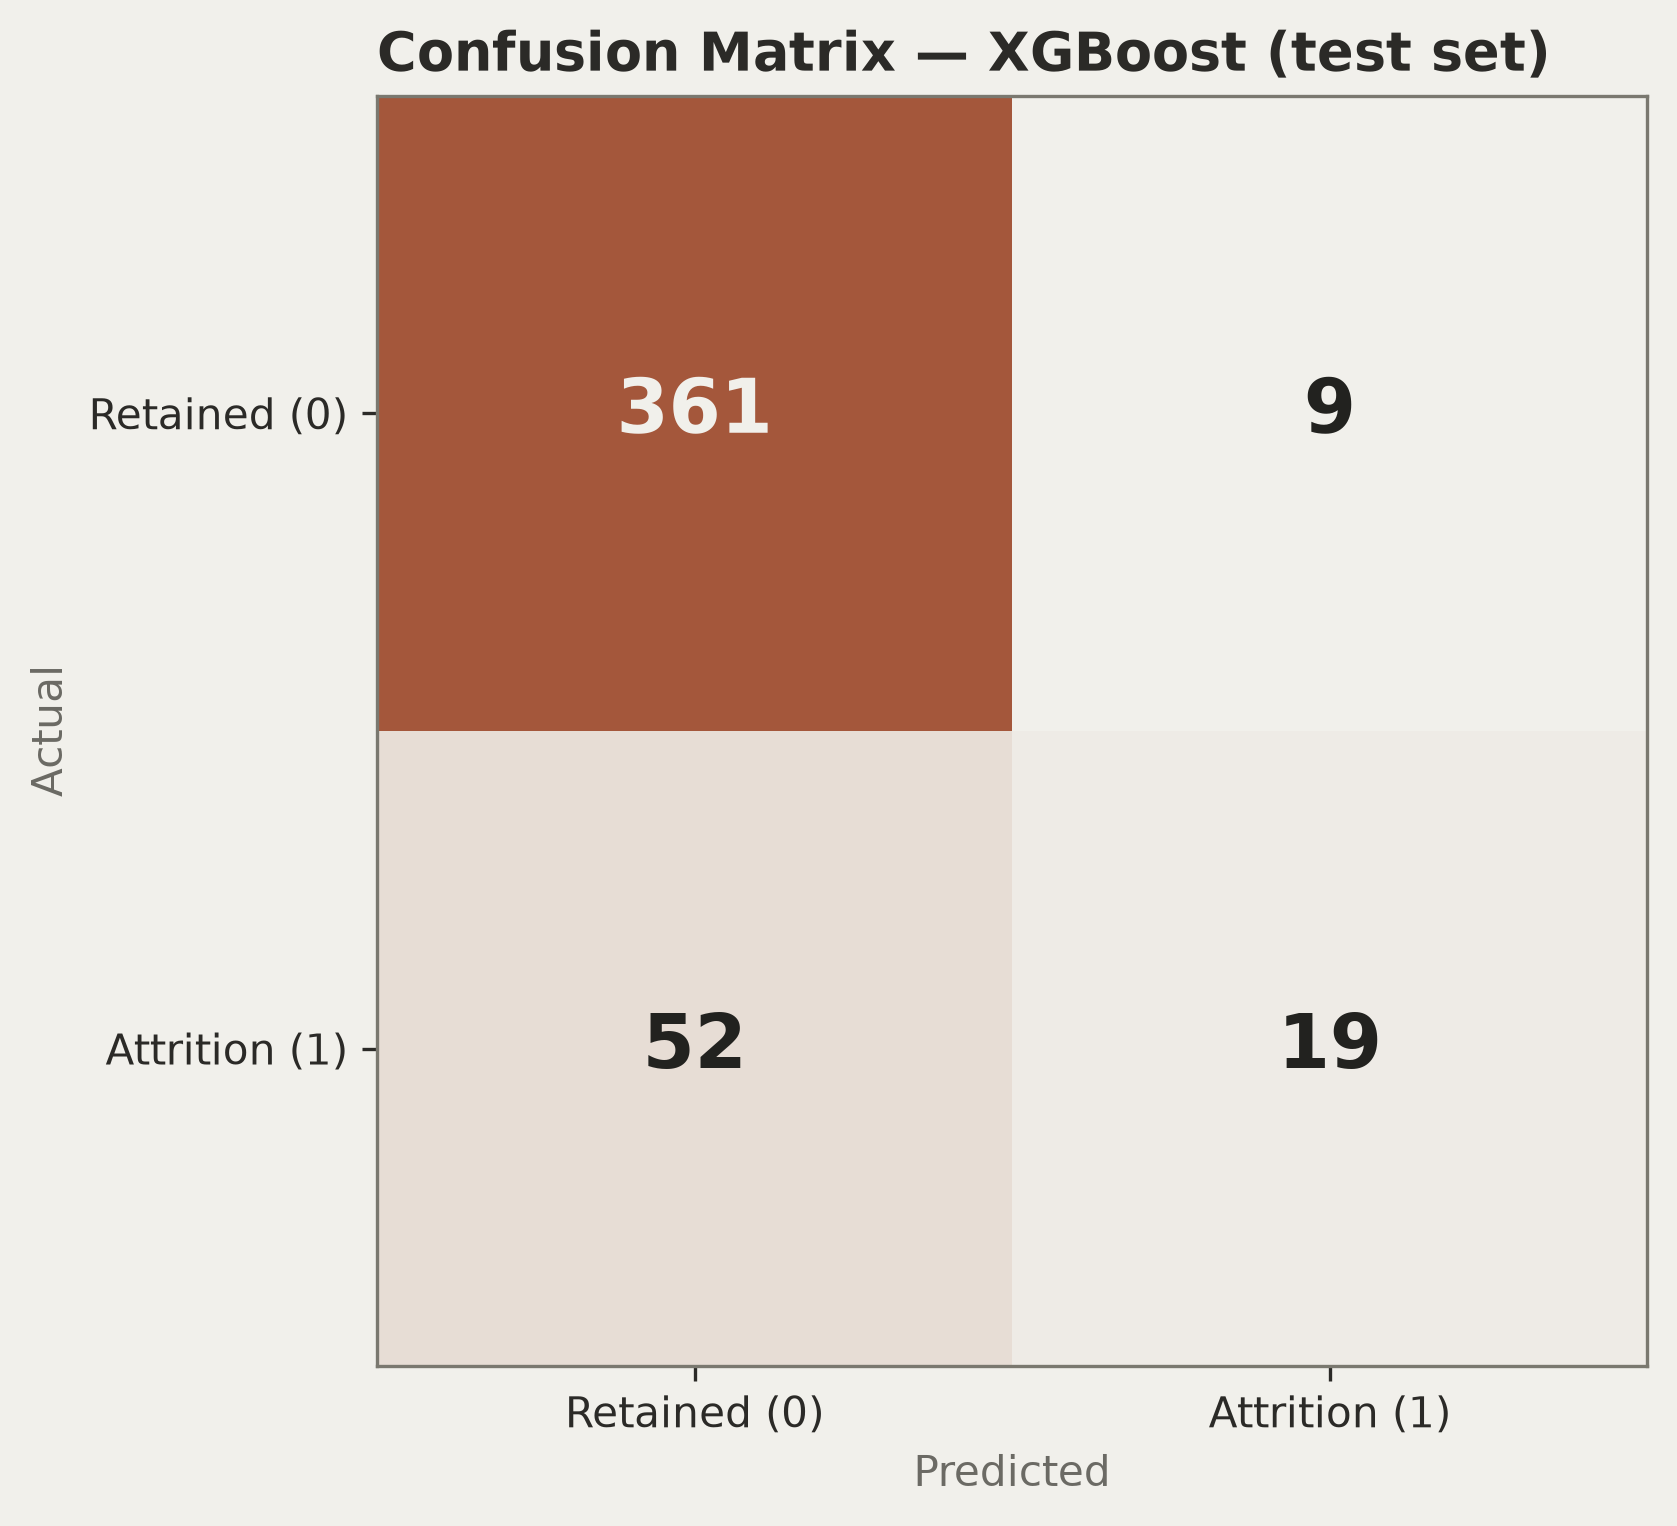
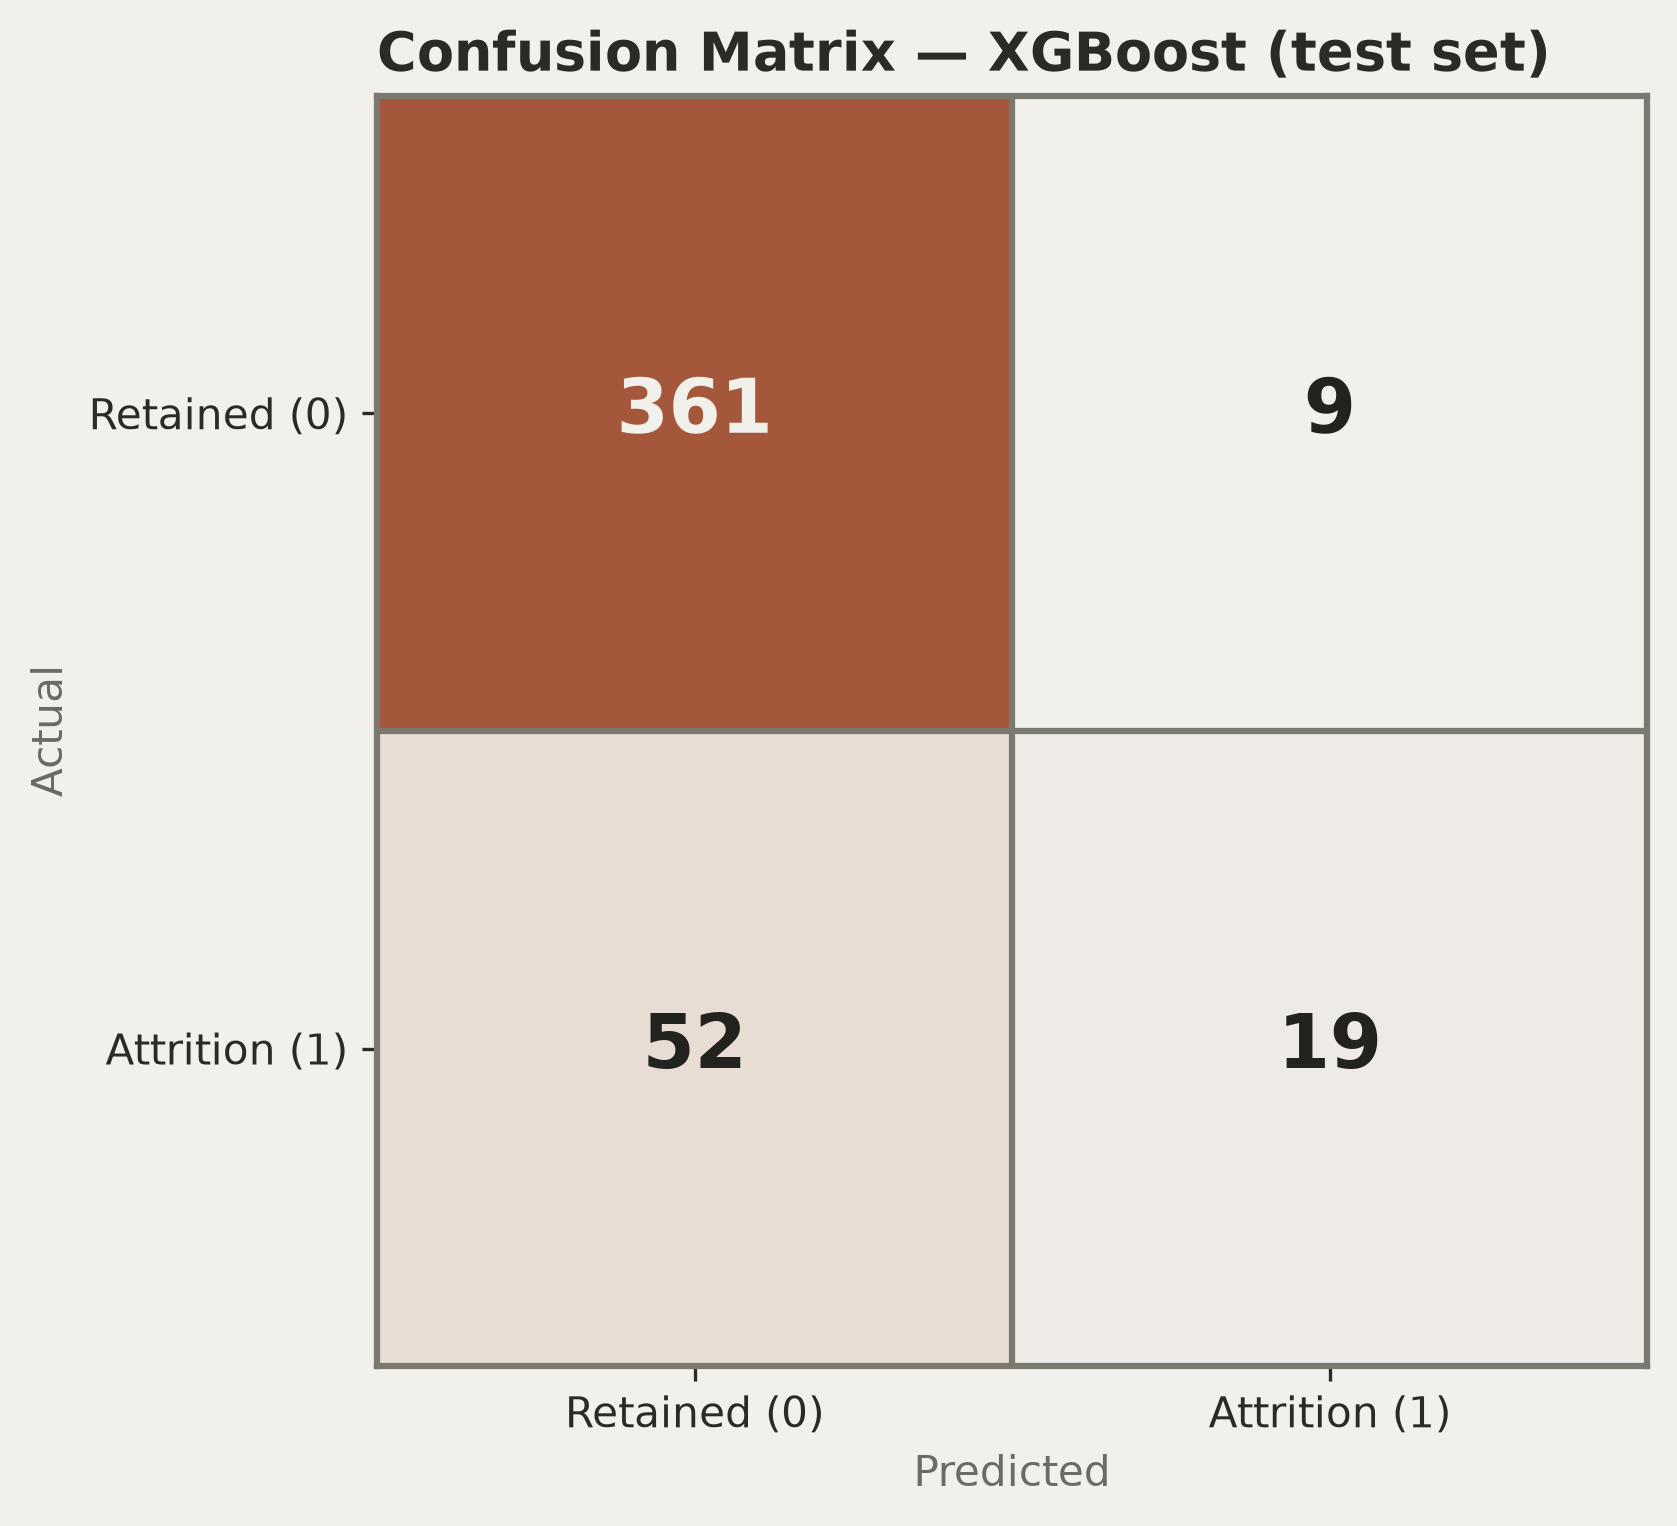
Make SHAP mid-values visible, border confusion-matrix cells, list palette.py in README

Changed region(s): [[0.2171, 0.0616, 0.9922, 0.8932]]

diff --git a/src/palette.py b/src/palette.py
@@ -8,7 +8,9 @@ matplotlib rcParams both scripts rely on.
 Series colours are spaced in CIELAB lightness (L* ~24 / 32 / 39 / 46 / 53)
 so they stay distinguishable in greyscale; every series and reference colour
 is at least 3:1 against BACKGROUND, and both text colours at least 4.5:1.
-Grid and colormap ramp stops are non-data and exempt from the 3:1 rule.
+Grid and the light colormap ramp stops are non-data and exempt from the 3:1
+rule. The SHAP mid stop is the exception: mid-valued dots are data, so it
+reaches 3:1 too.
 Numbers printed inside heatmap / confusion-matrix cells use CELL_TEXT or
 BACKGROUND, picked per cell by text_color_for, and reach 4.5:1 on every cell.
 """
@@ -45,8 +47,9 @@ TEAL_STOP = "#3F6B6B"
 DIVERGING_CMAP = LinearSegmentedColormap.from_list("earth_diverging", [TEAL_STOP, BACKGROUND, RUST])
 # Sequential (confusion matrix): linen -> rust
 SEQUENTIAL_CMAP = LinearSegmentedColormap.from_list("earth_sequential", [BACKGROUND, RUST])
-# SHAP feature value: low -> high
-SHAP_CMAP = LinearSegmentedColormap.from_list("earth_shap", [TEAL_STOP, GRID, RUST])
+# SHAP feature value: low -> high. Mid stop is a grey at 3.11:1 on BACKGROUND so mid-valued dots stay visible.
+SHAP_MID = "#8A8880"
+SHAP_CMAP = LinearSegmentedColormap.from_list("earth_shap", [TEAL_STOP, SHAP_MID, RUST])
 
 
 def _relative_luminance(color) -> float:

diff --git a/src/evaluate.py b/src/evaluate.py
@@ -238,6 +238,10 @@ def plot_confusion_matrix(
     for spine in ax.spines.values():
         spine.set_visible(True)
         spine.set_color(REFERENCE)
+        spine.set_linewidth(1.5)
+    # Thin borders so the near-background "low count" cells still read as cells
+    ax.axhline(0.5, color=REFERENCE, linewidth=1.5)
+    ax.axvline(0.5, color=REFERENCE, linewidth=1.5)
     for i in range(2):
         for j in range(2):
             fill = image.cmap(image.norm(cm_arr[i, j]))

diff --git a/decisions.md b/decisions.md
@@ -9,10 +9,10 @@ stated reason.
 ---
 
 ### 2026-11-25 — Matte earth palette matching the portfolio site
-- **Decision:** All figures in `assets/` use a light, matte earth palette defined once in `src/palette.py` and imported by `scripts/generate_visuals.py` and `src/evaluate.py`. Background `#F1F0EB`, text `#2B2A27`, muted text `#6B6A64`, grid `#D5D2C9` (thin, dashed), reference lines and spines `#7A786F`, no top or right spine. Left/attrition is rust `#A4573B`, stayed is deep teal `#265252`, and the headline model (XGBoost) is charcoal `#3A3935` with a thicker line. The other models use moss `#546131` and ochre `#9C7A26`. Diverging (heatmap) runs `#3F6B6B` to linen to rust, sequential (confusion matrix) runs linen to rust, and SHAP runs `#3F6B6B` to `#D5D2C9` to rust. Heatmap and confusion-matrix cell text is picked by cell luminance (`src/palette.py:text_color_for`), choosing between linen and a cell ink `#22221F`. The cell ink is `#2B2A27` darkened minimally, because with `#2B2A27` the 0.71–0.77 heatmap cells reached only 4.05–4.45:1. Every cell now reaches at least 4.5:1. shap's own x=0 line is recoloured to `#7A786F`.
+- **Decision:** All figures in `assets/` use a light, matte earth palette defined once in `src/palette.py` and imported by `scripts/generate_visuals.py` and `src/evaluate.py`. Background `#F1F0EB`, text `#2B2A27`, muted text `#6B6A64`, grid `#D5D2C9` (thin, dashed), reference lines and spines `#7A786F`, no top or right spine. Left/attrition is rust `#A4573B`, stayed is deep teal `#265252`, and the headline model (XGBoost) is charcoal `#3A3935` with a thicker line. The other models use moss `#546131` and ochre `#9C7A26`. Diverging (heatmap) runs `#3F6B6B` to linen to rust, sequential (confusion matrix) runs linen to rust, and SHAP runs `#3F6B6B` to a mid grey `#8A8880` to rust. The SHAP mid stop was first the grid colour `#D5D2C9`, but SHAP dots with mid-range feature values are data, and at 1.32:1 against the background they nearly disappeared. `#8A8880` reaches 3.11:1, so mid-range dots stay visible; both ends are unchanged. The confusion matrix draws thin `#7A786F` cell borders (linewidth 1.5), so the near-background low-count cells still read as cells. Heatmap and confusion-matrix cell text is picked by cell luminance (`src/palette.py:text_color_for`), choosing between linen and a cell ink `#22221F`. The cell ink is `#2B2A27` darkened minimally, because with `#2B2A27` the 0.71–0.77 heatmap cells reached only 4.05–4.45:1. Every cell now reaches at least 4.5:1. shap's own x=0 line is recoloured to `#7A786F`.
 - **Why:** The user stated the figures should match the portfolio site.
 - **Alternatives considered:** Keeping the dark copper & teal theme. Using the requested series hexes exactly (`#3F6B6B`, `#5E6B3A`, `#967420`): rejected because three of them sit at L* 42–51 and look the same in greyscale. With the user's approval, only their CIELAB lightness was shifted to `#265252`, `#546131` and `#9C7A26`, spacing the five series at L* ≈ 24/32/39/46/53.
-- **Tradeoff accepted:** The muted hues are low-chroma, and some pairs fail the dataviz CVD check (for example rust vs moss under protanopia). Identity therefore also comes from line style, line width and the legend: every model has its own dash pattern, and Departed is drawn dashed. The grid and the light colormap stops are under 3:1 against the background on purpose, as non-data elements (approved by the user).
+- **Tradeoff accepted:** The muted hues are low-chroma, and some pairs fail the dataviz CVD check (for example rust vs moss under protanopia). Identity therefore also comes from line style, line width and the legend: every model has its own dash pattern, and Departed is drawn dashed. The grid and the light heatmap / confusion-matrix colormap stops are under 3:1 against the background on purpose, as non-data elements (approved by the user).
 - **Source:** made-now
 
 ### 2026-11-24 — Write README EDA numbers to assets/eda_stats.json

diff --git a/README.md b/README.md
@@ -88,7 +88,8 @@ src/
 ├── data_ingestion.py      # Loads the single source CSV
 ├── preprocessing.py       # Cleaning, the fixed split, and the scale -> SMOTENC -> encode steps
 ├── train.py               # 5-fold CV of all four models, headline selection, saves fitted pipelines
-└── evaluate.py            # Loads saved pipelines, test metrics, ROC/PR/confusion/SHAP plots, metrics.json
+├── evaluate.py            # Loads saved pipelines, test metrics, ROC/PR/confusion/SHAP plots, metrics.json
+└── palette.py             # Shared colour palette and matplotlib theme for all figures
 ```
 
 ### 1. Data Ingestion ([`src/data_ingestion.py`](src/data_ingestion.py))
@@ -110,6 +111,7 @@ src/
 ### 4. Evaluation ([`src/evaluate.py`](src/evaluate.py))
 * Loads the saved pipelines (no retraining; it tells you to run `train.py` first if they are missing).
 * Reports accuracy, precision, recall, F1, ROC-AUC and PR-AUC on the 441-row test split, writes `assets/metrics.json`, and draws the ROC, PR, confusion-matrix and SHAP plots.
+* The plots use the shared colour palette and matplotlib theme from [`src/palette.py`](src/palette.py).
 
 ---
 
@@ -212,7 +214,8 @@ employee-attrition-analysis/
 │   ├── data_ingestion.py              # Loads the source CSV
 │   ├── preprocessing.py               # Cleaning, split, scale -> SMOTENC -> encode steps
 │   ├── train.py                       # CV, headline selection, saves pipelines
-│   └── evaluate.py                    # Test metrics, plots, metrics.json
+│   ├── evaluate.py                    # Test metrics, plots, metrics.json
+│   └── palette.py                     # Shared colour palette and matplotlib theme for all figures
 │
 ├── scripts/
 │   └── generate_visuals.py            # EDA plot generator
